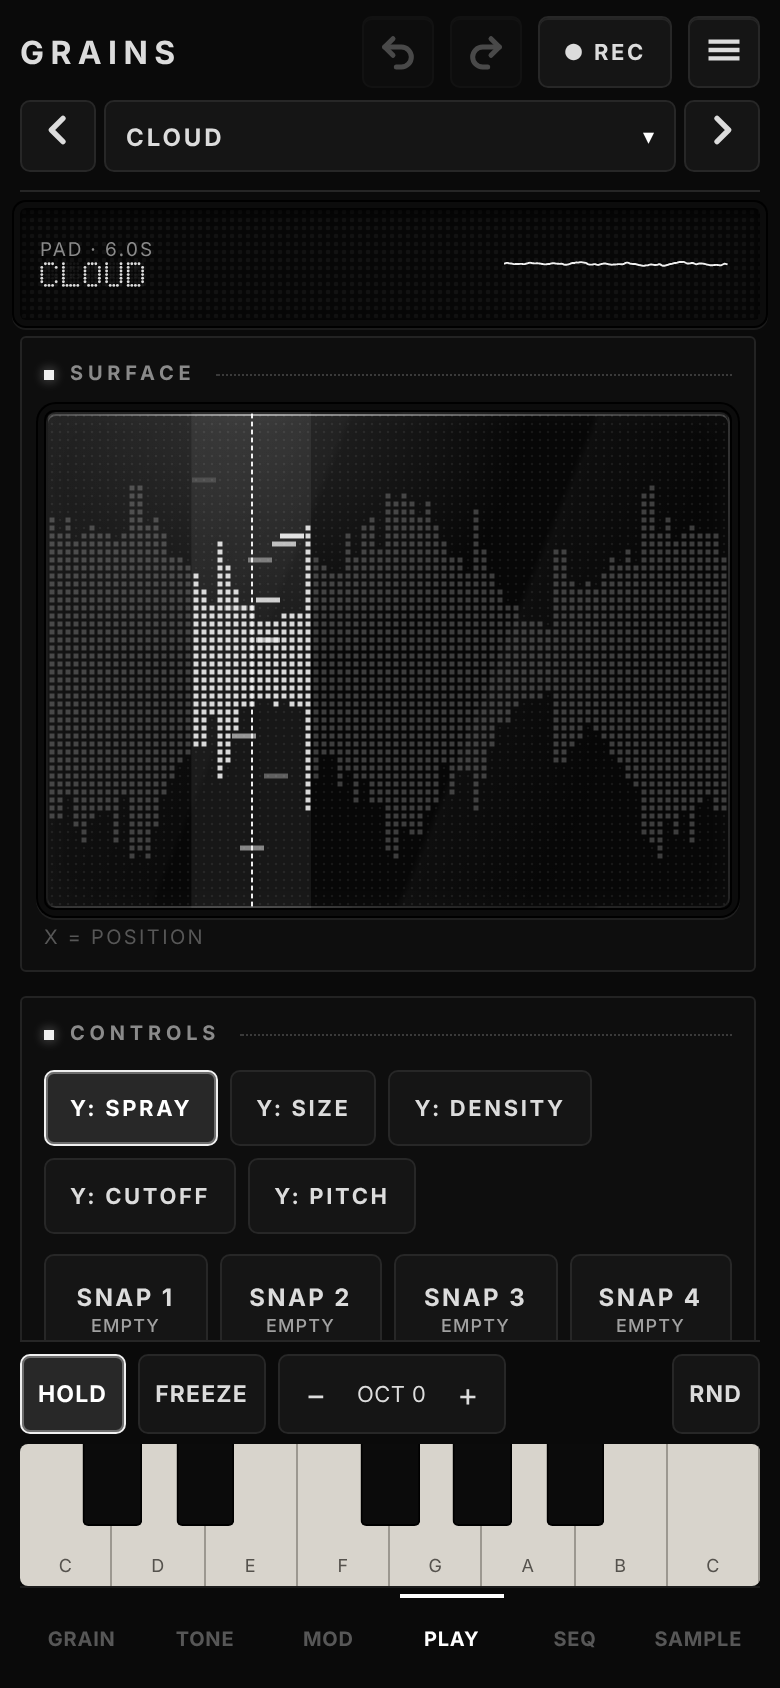
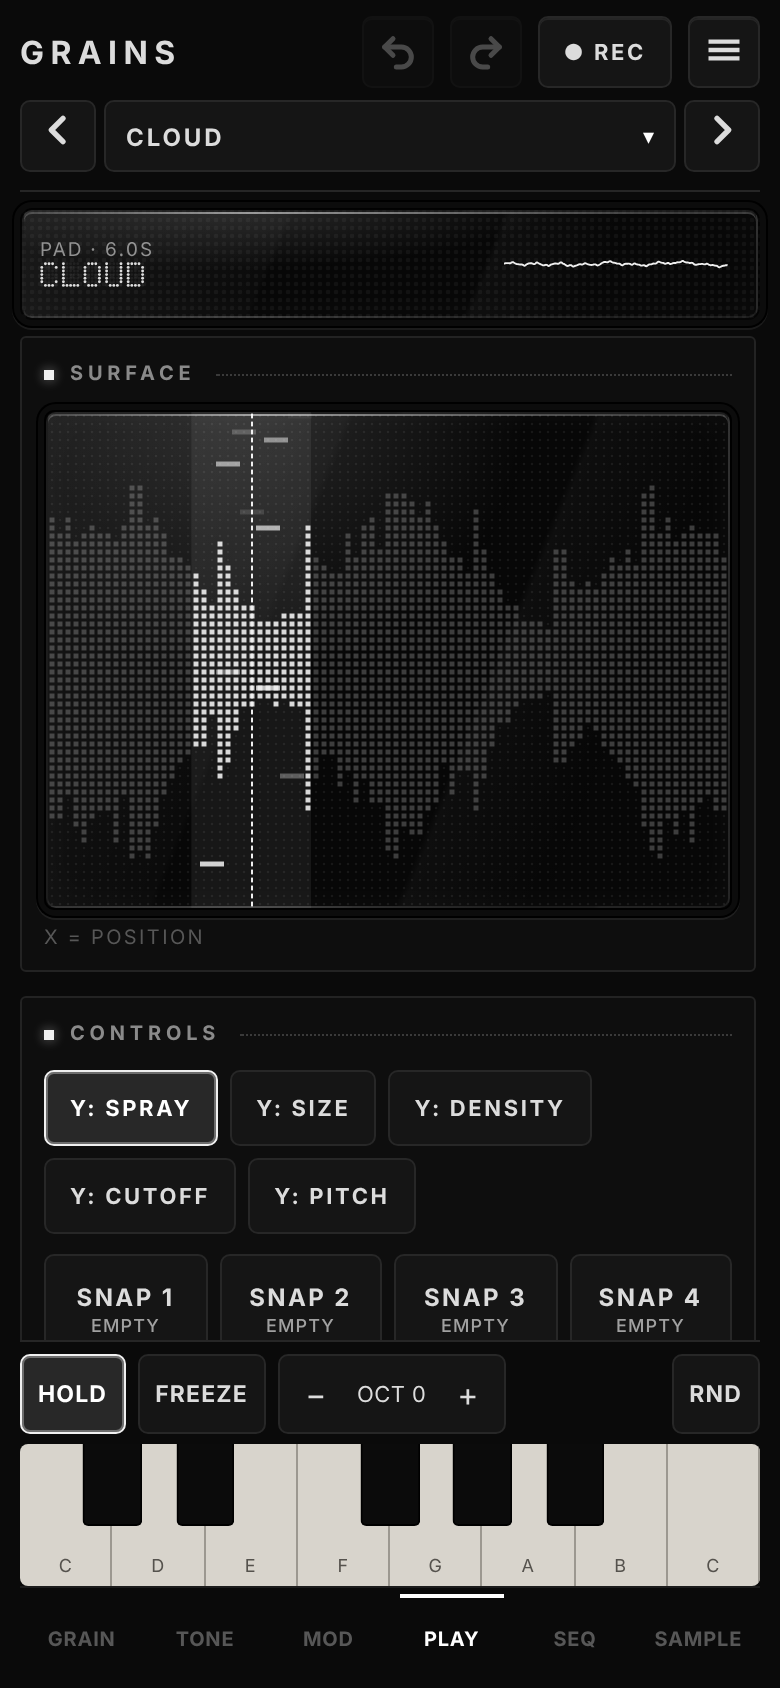
Add files via upload

diff --git a/index.html b/index.html
@@ -434,7 +434,7 @@ body.simple nav#tabs{grid-template-columns:repeat(3,1fr)}
     </div>
   </header>
 
-  <div class="oled">
+  <div class="oled glass">
     <div><div class="l1" id="l1">NO SAMPLE</div><div class="l2" id="l2">GRAINS</div><div class="l3" id="l3">DRAG KNOBS · DOUBLE-TAP TO RESET</div></div>
     <canvas id="scope"></canvas>
   </div>
@@ -1429,6 +1429,11 @@ function frame(){
 }
 
 /* ---------------- tabs ---------------- */
+/* iOS Safari can keep stale hit-testing for blocks that were just un-hidden (a level change): force a layer and layout refresh, now and again once the sheet has finished closing */
+function kickLayout() {
+  function go() { ['#views', '#app', '#tabs', '.nav', '.main'].forEach(function (s) { var e = document.querySelector(s); if (!e) return; e.style.transform = 'translateZ(0)'; void e.offsetHeight; e.style.transform = ''; }); try { window.dispatchEvent(new Event('resize')); } catch (x) { } }
+  go(); requestAnimationFrame(go); setTimeout(go, 450);
+}
 var curTab='grain';
 var merged=false;
 /* interface level: simple keeps GRAIN, TONE and PLAY; full adds MOD, SEQ and SAMPLE */
@@ -2514,7 +2519,7 @@ function buildSettings(){
   });
   [['simple','Simple'],['full','Full']].forEach(function(o){
     var c=document.createElement('button');c.type='button';c.className='chip'+(cfg.ui===o[0]?' on':'');c.textContent=o[1];
-    c.addEventListener('click',function(){cfg.ui=o[0];store('grains.cfg.v1',cfg);applyLevel();$$('#levelChips .chip').forEach(function(x){x.classList.toggle('on',x===c)});toast(o[0]==='full'?'Full interface':'Simple interface')});
+    c.addEventListener('click',function(){cfg.ui=o[0];store('grains.cfg.v1',cfg);applyLevel();kickLayout();$$('#levelChips .chip').forEach(function(x){x.classList.toggle('on',x===c)});toast(o[0]==='full'?'Full interface':'Simple interface')});
     $('#levelChips').appendChild(c);
   });
   applyLevel();

diff --git a/src/js/24-settings.js b/src/js/24-settings.js
@@ -15,7 +15,7 @@ function buildSettings(){
   });
   [['simple','Simple'],['full','Full']].forEach(function(o){
     var c=document.createElement('button');c.type='button';c.className='chip'+(cfg.ui===o[0]?' on':'');c.textContent=o[1];
-    c.addEventListener('click',function(){cfg.ui=o[0];store('grains.cfg.v1',cfg);applyLevel();$$('#levelChips .chip').forEach(function(x){x.classList.toggle('on',x===c)});toast(o[0]==='full'?'Full interface':'Simple interface')});
+    c.addEventListener('click',function(){cfg.ui=o[0];store('grains.cfg.v1',cfg);applyLevel();kickLayout();$$('#levelChips .chip').forEach(function(x){x.classList.toggle('on',x===c)});toast(o[0]==='full'?'Full interface':'Simple interface')});
     $('#levelChips').appendChild(c);
   });
   applyLevel();

diff --git a/src/js/13-tabs.js b/src/js/13-tabs.js
@@ -1,4 +1,9 @@
 /* ---------------- tabs ---------------- */
+/* iOS Safari can keep stale hit-testing for blocks that were just un-hidden (a level change): force a layer and layout refresh, now and again once the sheet has finished closing */
+function kickLayout() {
+  function go() { ['#views', '#app', '#tabs', '.nav', '.main'].forEach(function (s) { var e = document.querySelector(s); if (!e) return; e.style.transform = 'translateZ(0)'; void e.offsetHeight; e.style.transform = ''; }); try { window.dispatchEvent(new Event('resize')); } catch (x) { } }
+  go(); requestAnimationFrame(go); setTimeout(go, 450);
+}
 var curTab='grain';
 var merged=false;
 /* interface level: simple keeps GRAIN, TONE and PLAY; full adds MOD, SEQ and SAMPLE */

diff --git a/sw.js b/sw.js
@@ -1,5 +1,5 @@
 // Offline cache for GRAINS (only active over https / localhost)
-var V = 'grains-v16';
+var V = 'grains-v18';
 var FILES = ['./', 'index.html', 'manifest.webmanifest', 'icons/icon.svg', 'icons/icon-180.png', 'icons/icon-192.png', 'icons/icon-512.png'];
 self.addEventListener('install', function (e) {
   e.waitUntil(caches.open(V).then(function (c) { return c.addAll(FILES); }).then(function () { return self.skipWaiting(); }));

diff --git a/src/index.html b/src/index.html
@@ -41,7 +41,7 @@
     </div>
   </header>
 
-  <div class="oled">
+  <div class="oled glass">
     <div><div class="l1" id="l1">NO SAMPLE</div><div class="l2" id="l2">GRAINS</div><div class="l3" id="l3">DRAG KNOBS · DOUBLE-TAP TO RESET</div></div>
     <canvas id="scope"></canvas>
   </div>
